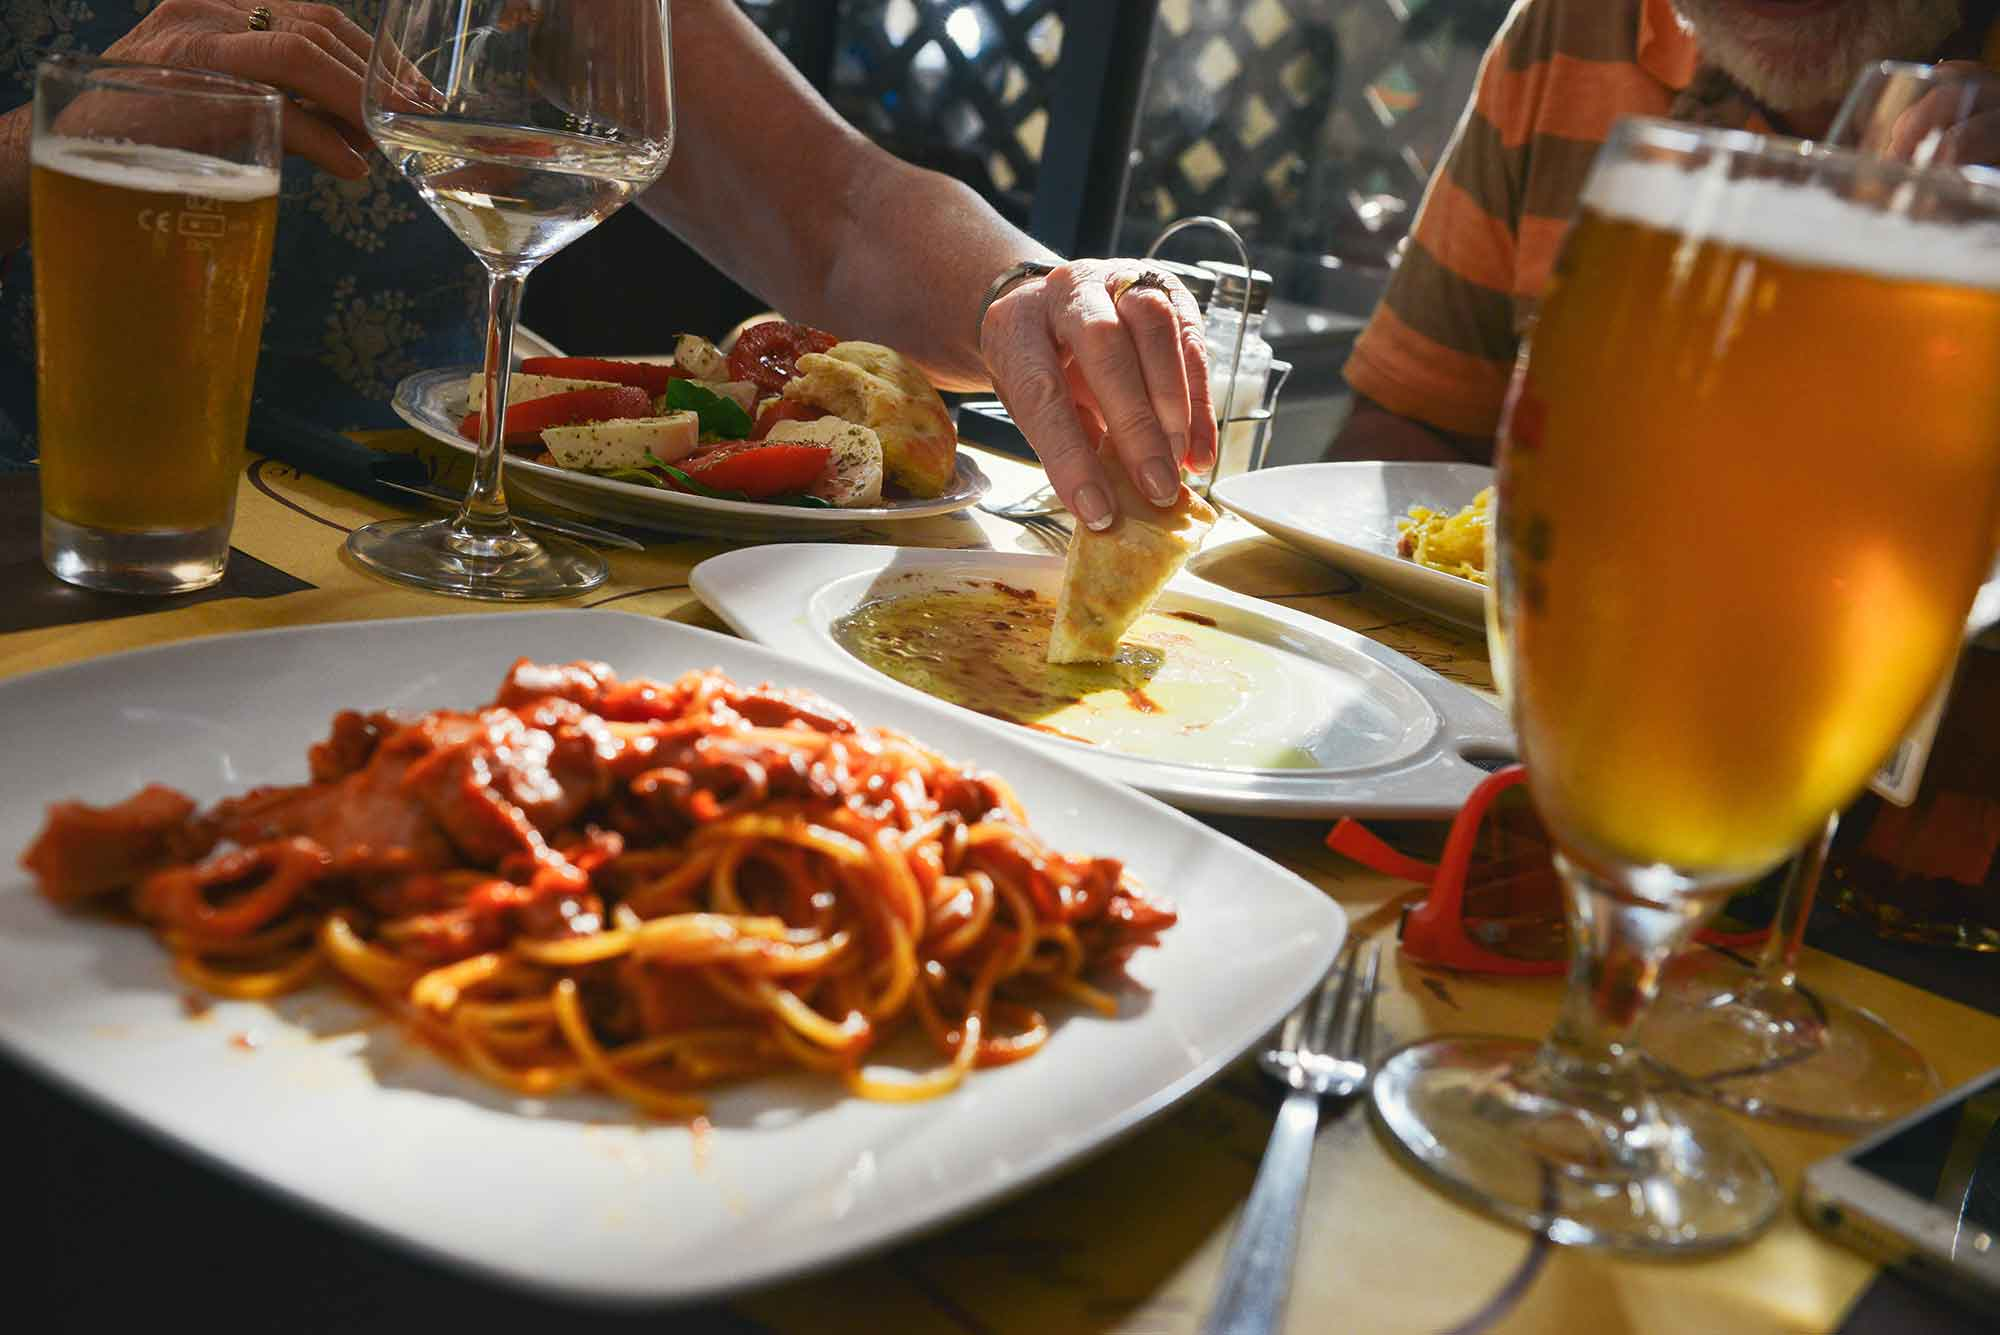
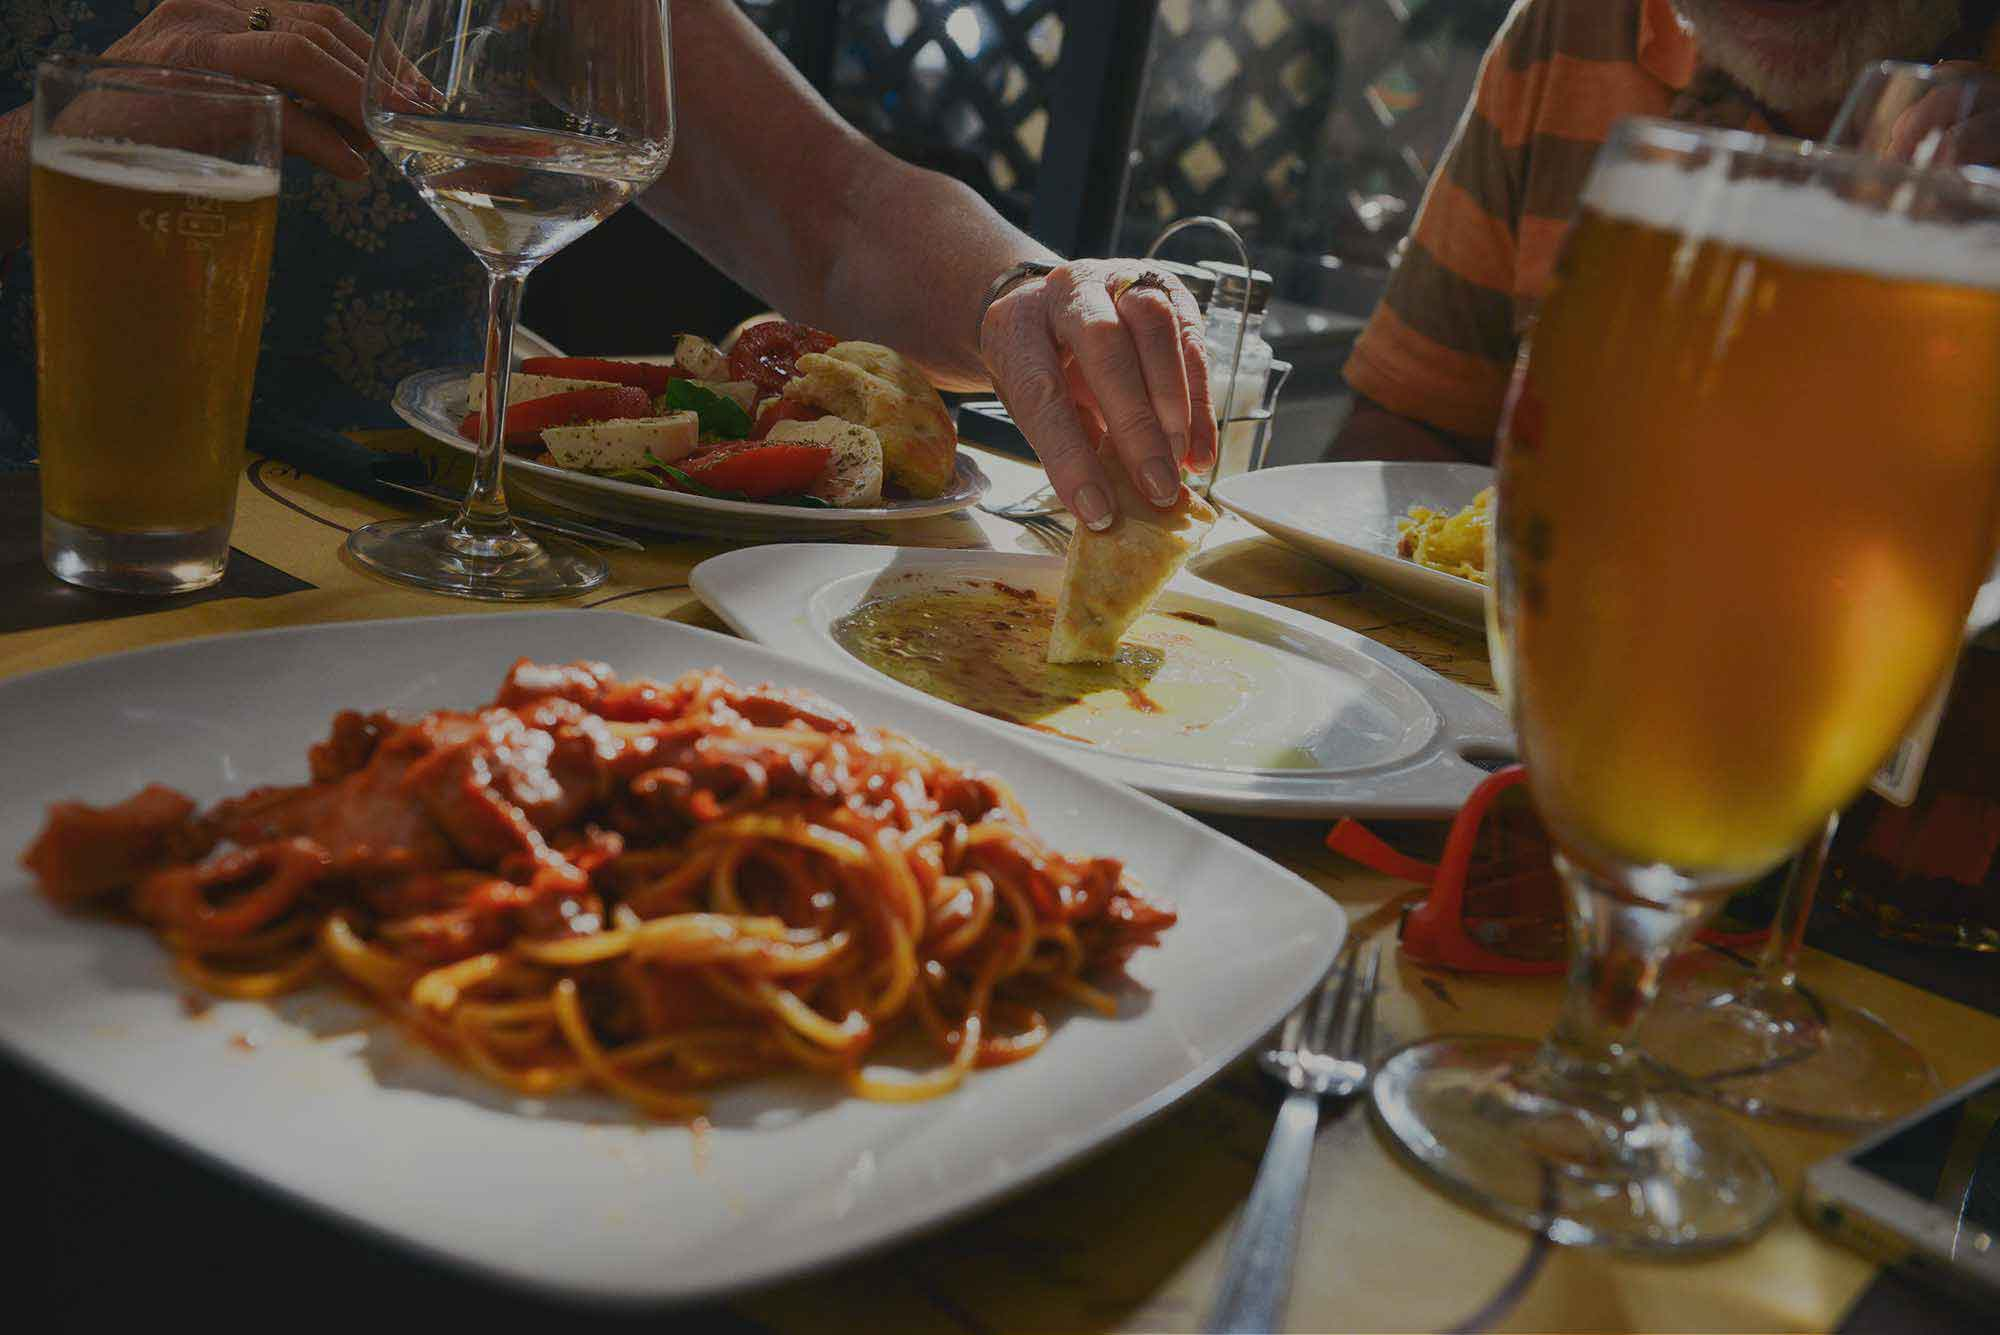
-added new slider images -images have black overly to make text more visible

diff --git a/index.html b/index.html
@@ -48,17 +48,17 @@
 			 </div>
 		 </li>
 		 <li>
-			 <img src="http://lorempixel.com/580/250/nature/2"> <!-- random image -->
+			 <img src="breakfast.jpg"> <!-- random image -->
 			 <div class="caption left-align">
-				 <h3>Left Aligned Caption</h3>
-				 <h5 class="light grey-text text-lighten-3">Here's our small slogan.</h5>
+				 <h3>Premium food, affordable price.</h3>
+				 <h5 class="light grey-text text-lighten-3">Great food.  An experience you will enjoy.</h5>
 			 </div>
 		 </li>
 		 <li>
-			 <img src="http://lorempixel.com/580/250/nature/4"> <!-- random image -->
+			 <img src="greatservice.jpg"> <!-- random image -->
 			 <div class="caption center-align">
-				 <h3>This is our big Tagline!</h3>
-				 <h5 class="light grey-text text-lighten-3">Here's our small slogan.</h5>
+				 <h3>In Person. Over the phone. Online.</h3>
+				 <h5 class="light grey-text text-lighten-3">We make it convenient for you.  Order now.</h5>
 			 </div>
 		 </li>
 		</ul>
